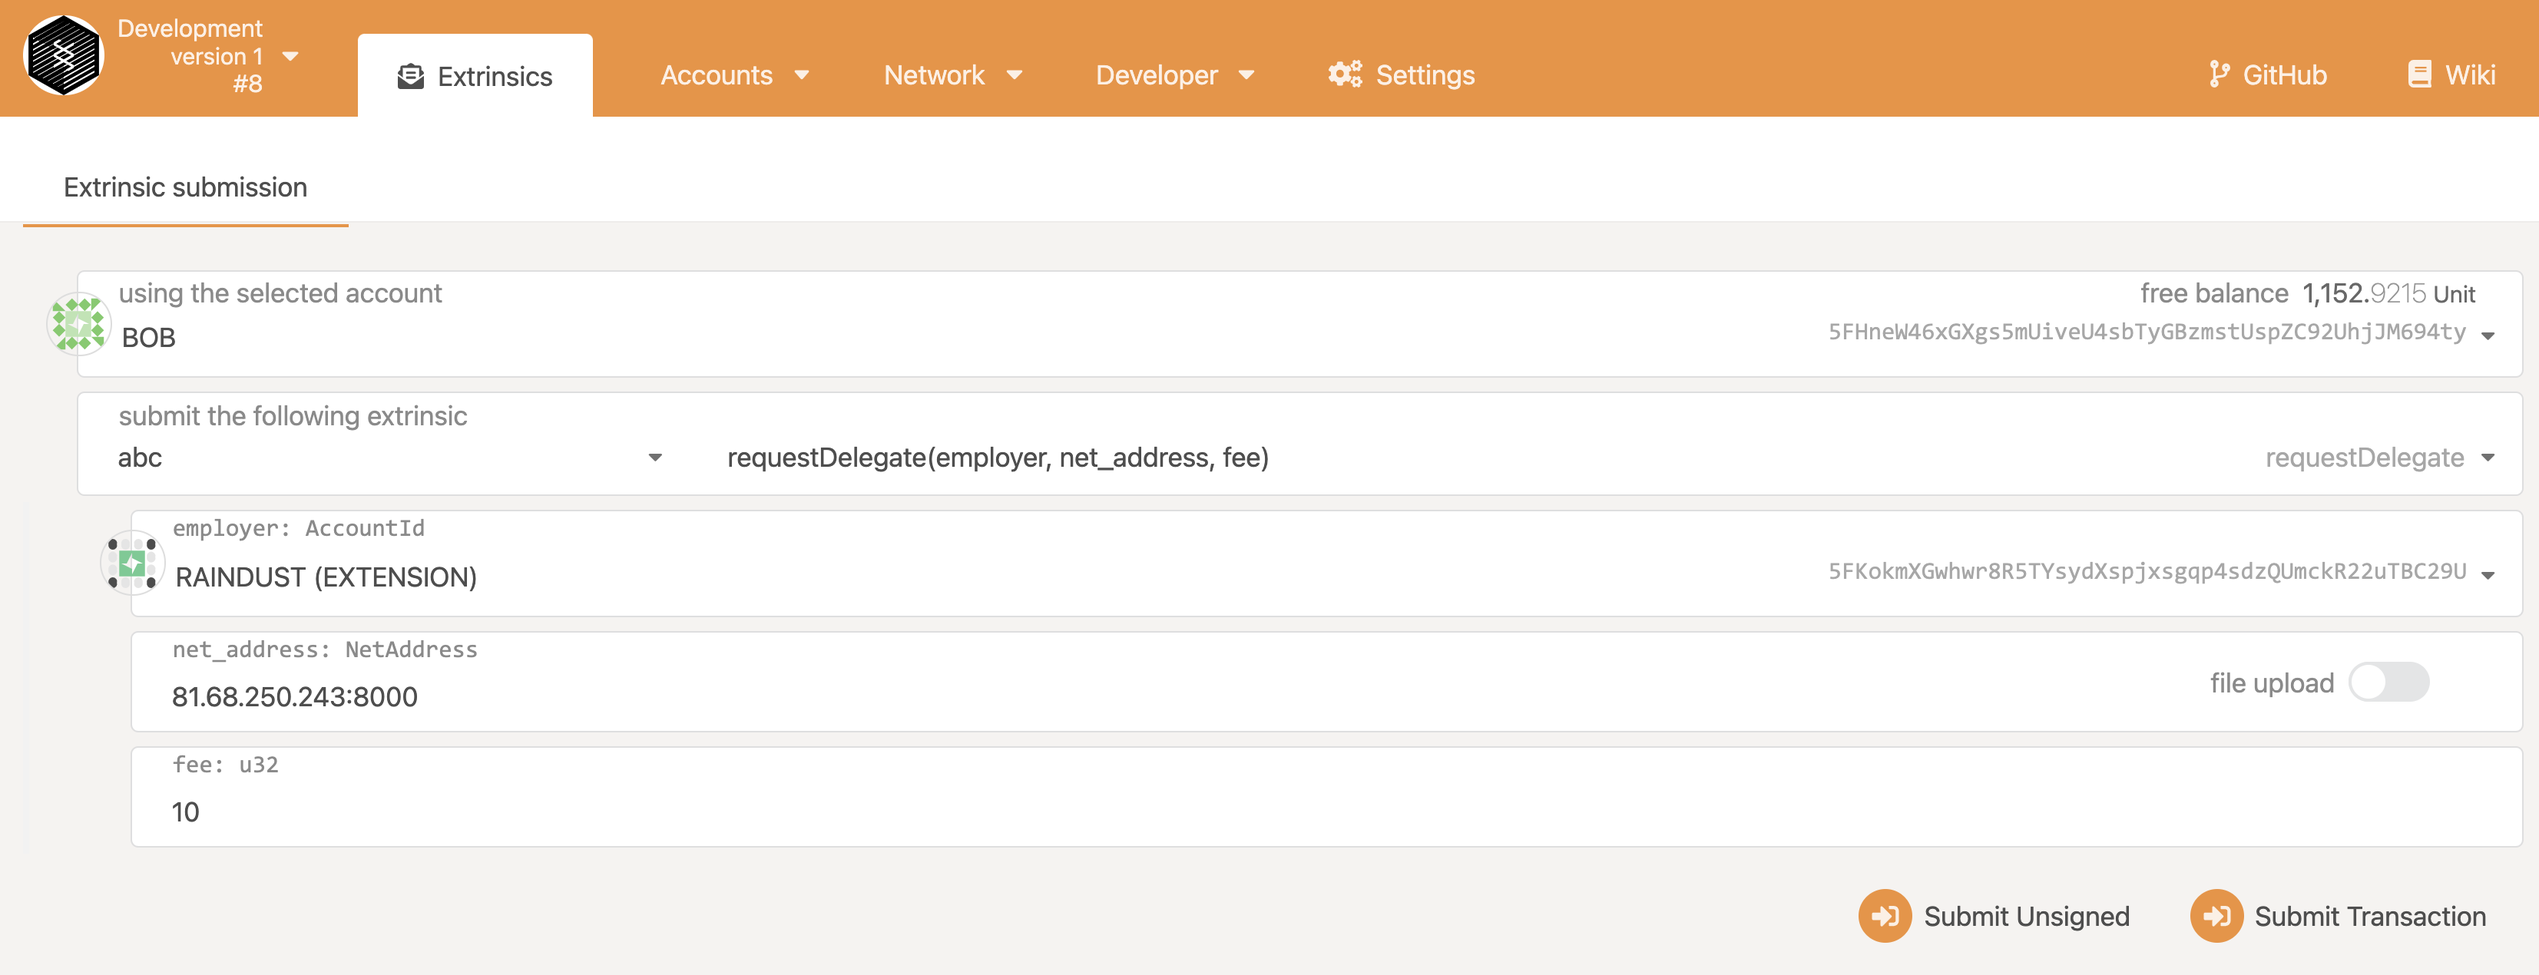
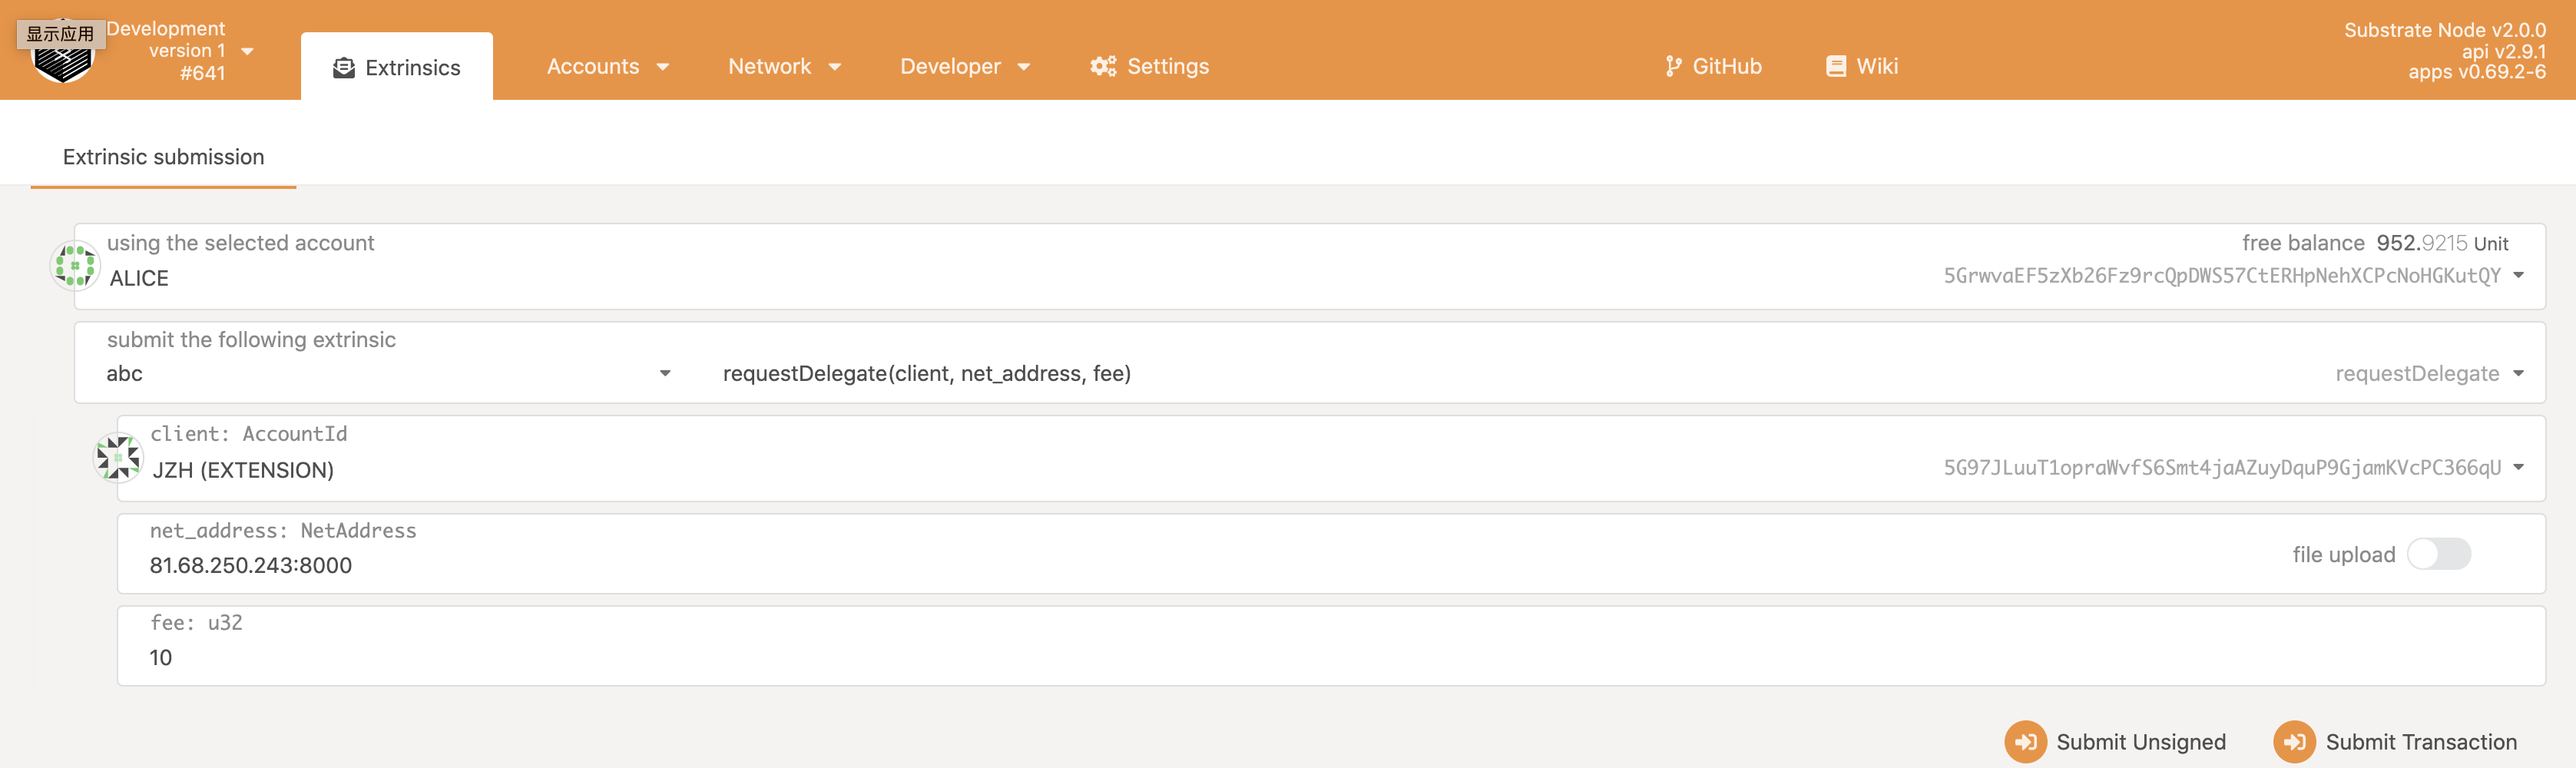
rename employer to client

diff --git a/Try_the_demo/Run_task_on_other_blockchain_sequence.md b/Try_the_demo/Run_task_on_other_blockchain_sequence.md
@@ -18,17 +18,17 @@ end box
 
 client->alice: request delegate
 note right
-request_delegate(sender, employer, net_address, fee)
-record employer information to chain
-   insert into EmployersApplys(block_number, vec[(employer, sender])
-   insert into Employers(employer, false)
-   insert into EmployerSender(employer, sender)
-   insert into EmployerFee(empolyer, fee)
+request_delegate(sender, client, net_address, fee)
+record client information to chain
+   insert into ClientsApplys(block_number, vec[(client, sender])
+   insert into Clients(client, false)
+   insert into ClientSender(client, sender)
+   insert into ClientFee(empolyer, fee)
 end note
 
 alice-->layer1Alice: request delegate
 note right
- request_delegate(employer, net_address) {
+ request_delegate(client, net_address) {
    Call BeMyDelegateRequest
  }
 end note
@@ -49,16 +49,16 @@ end note
 alice-[#blue]>alice: <OffChainWorker> apply delegate
 rnote right
 apply_delegates(block_number)
- update_delegate_status(employer, updater)
+ update_delegate_status(client, updater)
  need updater sign 
- insert into Employers(employer, true)
+ insert into Clients(client, true)
 end note
 
 client->alice: begin task
 note right
-begin_task(sender, employer, description_cid, fee)
+begin_task(sender, client, description_cid, fee)
  insert into Tasks(block_number, vec[TaskInfo])
- insert into EmployerTaskFee(employer, fee)
+ insert into ClientTaskFee(client, fee)
 end note
 
 alice-[#blue]>alice:<OffChanWorker> send errand tasks
@@ -70,16 +70,16 @@ range tasks {
             errand_id: &ErrandId,
             net_address: &NetAddress,
         ) {
-             get DelegateInfo from local storage: load_delegate_info(employer)
+             get DelegateInfo from local storage: load_delegate_info(client)
              send task to tea network
         }
    init_single_errand_task(
             signer: &Signer<T, T::AuthorityId, ForAll>,
-            employer: &T::AccountId,
+            client: &T::AccountId,
             description_cid: &Cid,
             errand_id: &ErrandId,
         ) {
-               init_errand(employer, errand_id, description_cid) {
+               init_errand(client, errand_id, description_cid) {
                    insert into ProcessingErrands(description_cid)
                }
         }

diff --git a/Try_the_demo/Run_task_on_other_blockchain.md b/Try_the_demo/Run_task_on_other_blockchain.md
@@ -145,11 +145,11 @@ Because we use the default `9944` websocket port for normal node, we can operate
 
 In the Node WebUI we creat a `requestDelegate` extrinsic first. Note there are three parameters:
 
-1. employer: account that want to send a task
+1. client: account that want to send a task
 2. net_address: net address of delegator in [TEA netwrok](http://t-rust.com/#/doc_list/What_is_TEA%3F%2FREADME.md) (you can find it at "Prerequisites->Delegate Net Address" section above)
 3. fee: gas fee for the node that help to sent HTTP request to [TEA netwrok](http://t-rust.com/#/doc_list/What_is_TEA%3F%2FREADME.md)
 
-Note: Remember to transfer some token to employer account.
+Note: Remember to transfer some token to client account.
 
 ![](../res/substrate-demo-request-delegate.png)
 
@@ -169,7 +169,7 @@ And also we can see an event about the delegate at the Network->Explorer page.
 
 Again we creat a `beginTask` extrinsic, and there are three parameters too:
 
-1. employer: account that want to send a task
+1. client: account that want to send a task
 2. description_cid: an IPFS cid to describe the task (you can find it at "Prerequisites->Errand Json" section above) 
 3. fee: gas fee for the node that help to sent HTTP request to [TEA netwrok](http://t-rust.com/#/doc_list/What_is_TEA%3F%2FREADME.md)
 
